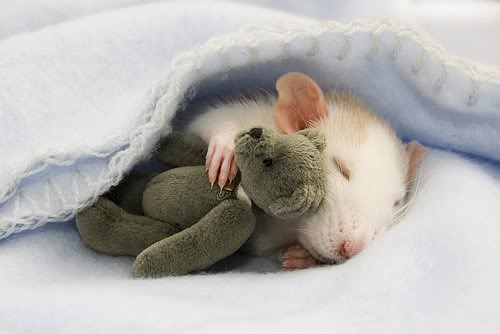
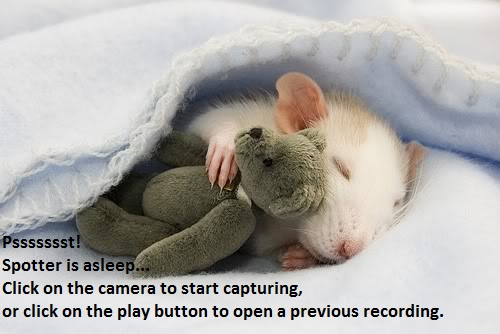
sleeping image fixed

Changed region(s): [[0.0, 0.7784, 0.9, 0.9581], [0.0, 0.6886, 0.18, 0.7485]]

diff --git a/lib/core/grabber.py b/lib/core/grabber.py
@@ -162,12 +162,11 @@ class Grabber:
     def grab(self):
 
         if self.capture is None:
-            img=np.zeros((360, 640,3), np.uint8)
-            cv2.putText(img=img, text='Psssst! Spotter is asleep... ', org=(60, 200), fontFace=cv2.FONT_HERSHEY_PLAIN, fontScale=1.0,
-                        color=(200, 50, 150), thickness=2, lineType=cv2.CV_AA)
-            cv2.putText(img=img, text= 'Please click on the Camera, or open a file.',
-                        org=(30, 250), fontFace=cv2.FONT_HERSHEY_PLAIN, fontScale=1.0,
-                        color=(200, 50, 150), thickness=2, lineType=cv2.CV_AA)
+
+            sleep=cv2.imread('F:\Spotter_development\lib\ui\mouse-sleeping.jpg')
+            img=cv2.resize(sleep, (int(size_default[0]*scale), int(size_default[1]*scale)))
+           # img=np.zeros((360, 640,3), np.uint8)
+
             return Frame(0, img, 'device')
         # Only really loops for first frame
         n_tries = 10 if self.frame_count < 1 else 1

diff --git a/lib/ui/StatusBar.py b/lib/ui/StatusBar.py
@@ -25,7 +25,7 @@ class StatusBar(QtGui.QWidget, Ui_statusBar):
         elif val=='file':
             self.state.setText('Playback')
         else:
-            self.state.setText('sleeping...')
+            self.state.setText('zzzZZZzzzz')
     def update_fps(self, fps):
        # if t != 0:
         self.gui_fps=fps
